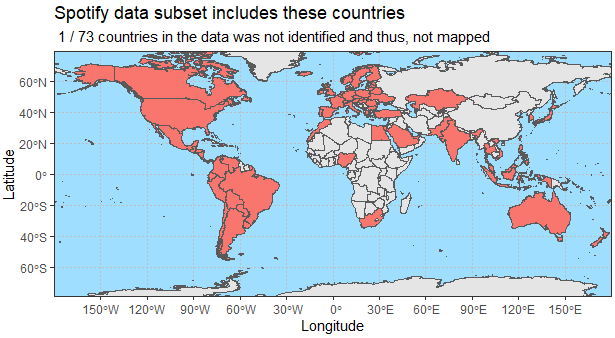
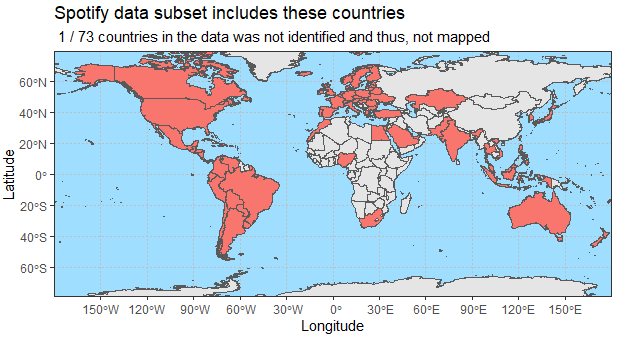
Spotify data subset image updated
Subtitle - for clarity

diff --git a/airline_fare_maps.html b/airline_fare_maps.html
@@ -141,7 +141,10 @@
 					<i>Interact with me!</i> Point for details; click and drag to move across the map; scroll to zoom.
 					<div class="container-md justify-left">
 						<iframe src="images/projects/airline_network/map.html" 
-						width="780px" height='768px' frameborder='0' scrolling='no';></iframe>
+						width="780px" height='768px' frameborder='0'
+						style='overflow: hidden;'
+						onload="this.contentWindow.document.body.style.overflow = 'hidden';"></iframe> 
+						<!-- onwheel='disableScroll(event)' -->
 					</div>
 					<br>
 					<p>A budding theory comes to mind when we see Colorado; budget airline Frontier is headquartered there. Are 
@@ -236,6 +239,14 @@
 	</main>
 	
 	<div id='footer'></div>
+	
+	<!-- JS ensuring small screens don't scroll excessively when interacting with the leaflet map -->
+	<!-- <script>
+	function disableScroll(event) {
+		event.preventDefault();  // Stop default scrolling behavior
+	}
+	</script> -->
+
 	
 	<!-- JavaScript to pull navbar and contact footer data -->
 	<script>
